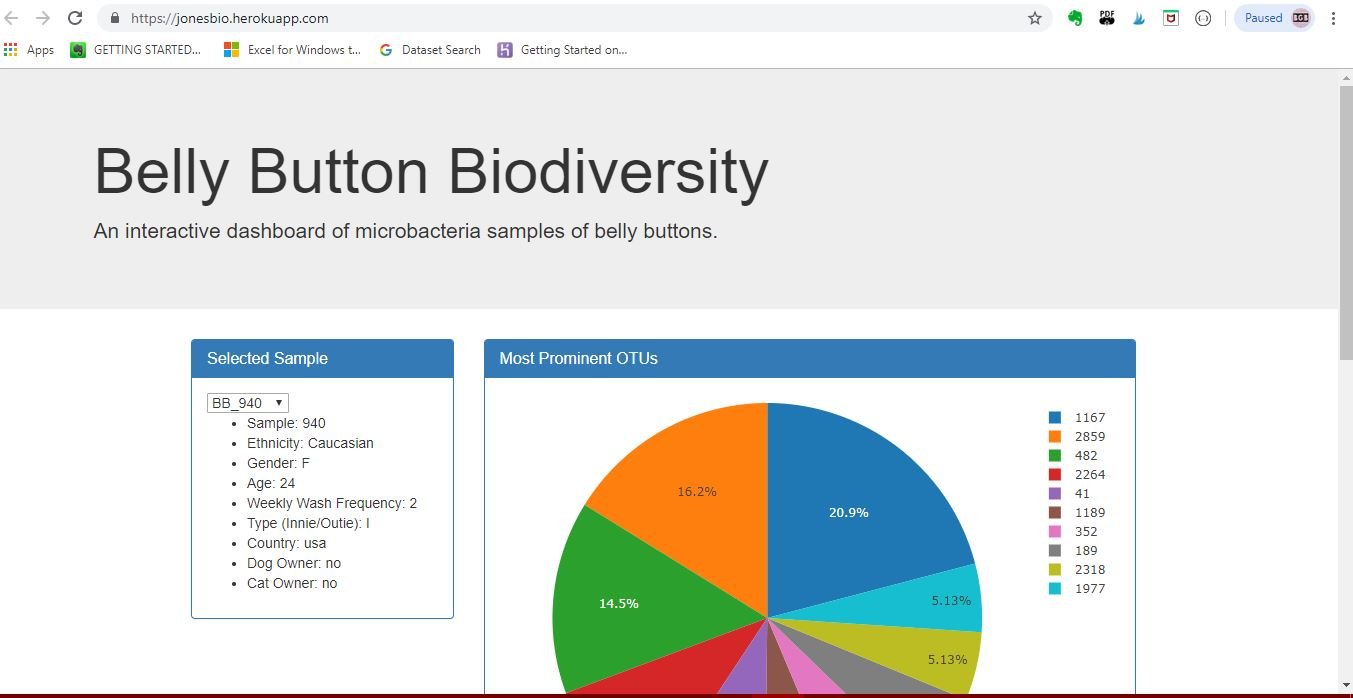
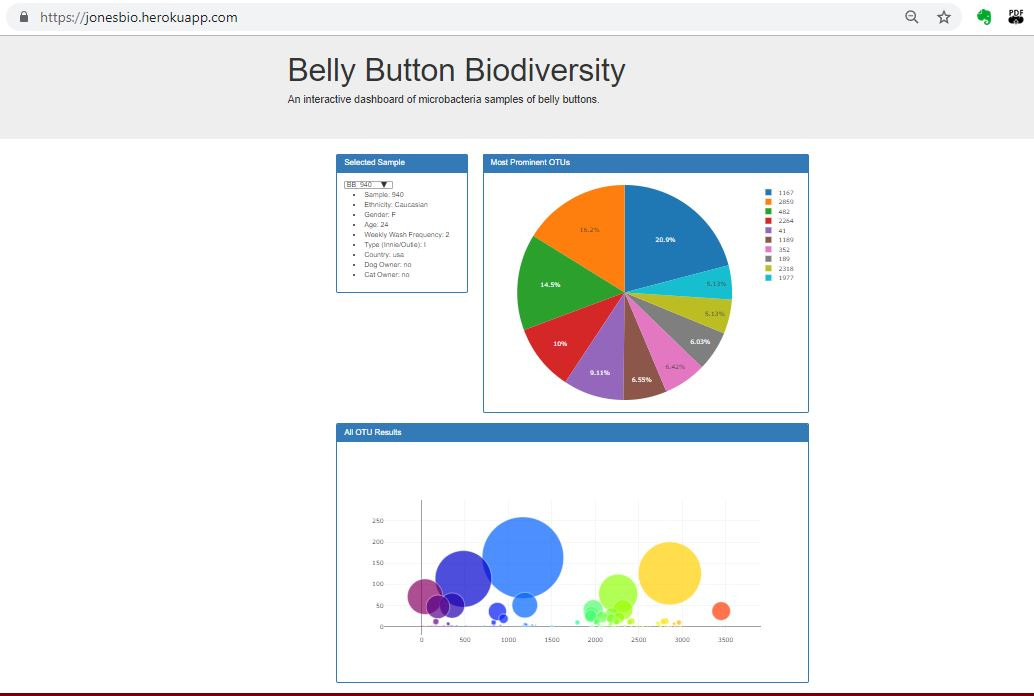
update readme & image

diff --git a/README.md b/README.md
@@ -1,2 +1,15 @@
-# plotly
-Plotly
+# Belly Button Biodiversity
+[Deployed App](https://jonesbio.herokuapp.com/)
+
+## Summary
+An interactive dashboard of belly button micro-organisms developed from a dataset of volunteer provided samples. Data is served from a Python Flask application and dynamically gathered and presented with javascript and Plotly.
+
+## Screenshot
+![sample screenshot](https://github.com/LJonesCE/plotly/blob/master/SampleScreenShot.JPG)
+
+## Data Source
+[Rob Dunn Lab](http://robdunnlab.com/projects/belly-button-biodiversity/ "Rob Dunn Lab")
+
+
+https://belly-button-microbiology.herokuapp.com/
+
